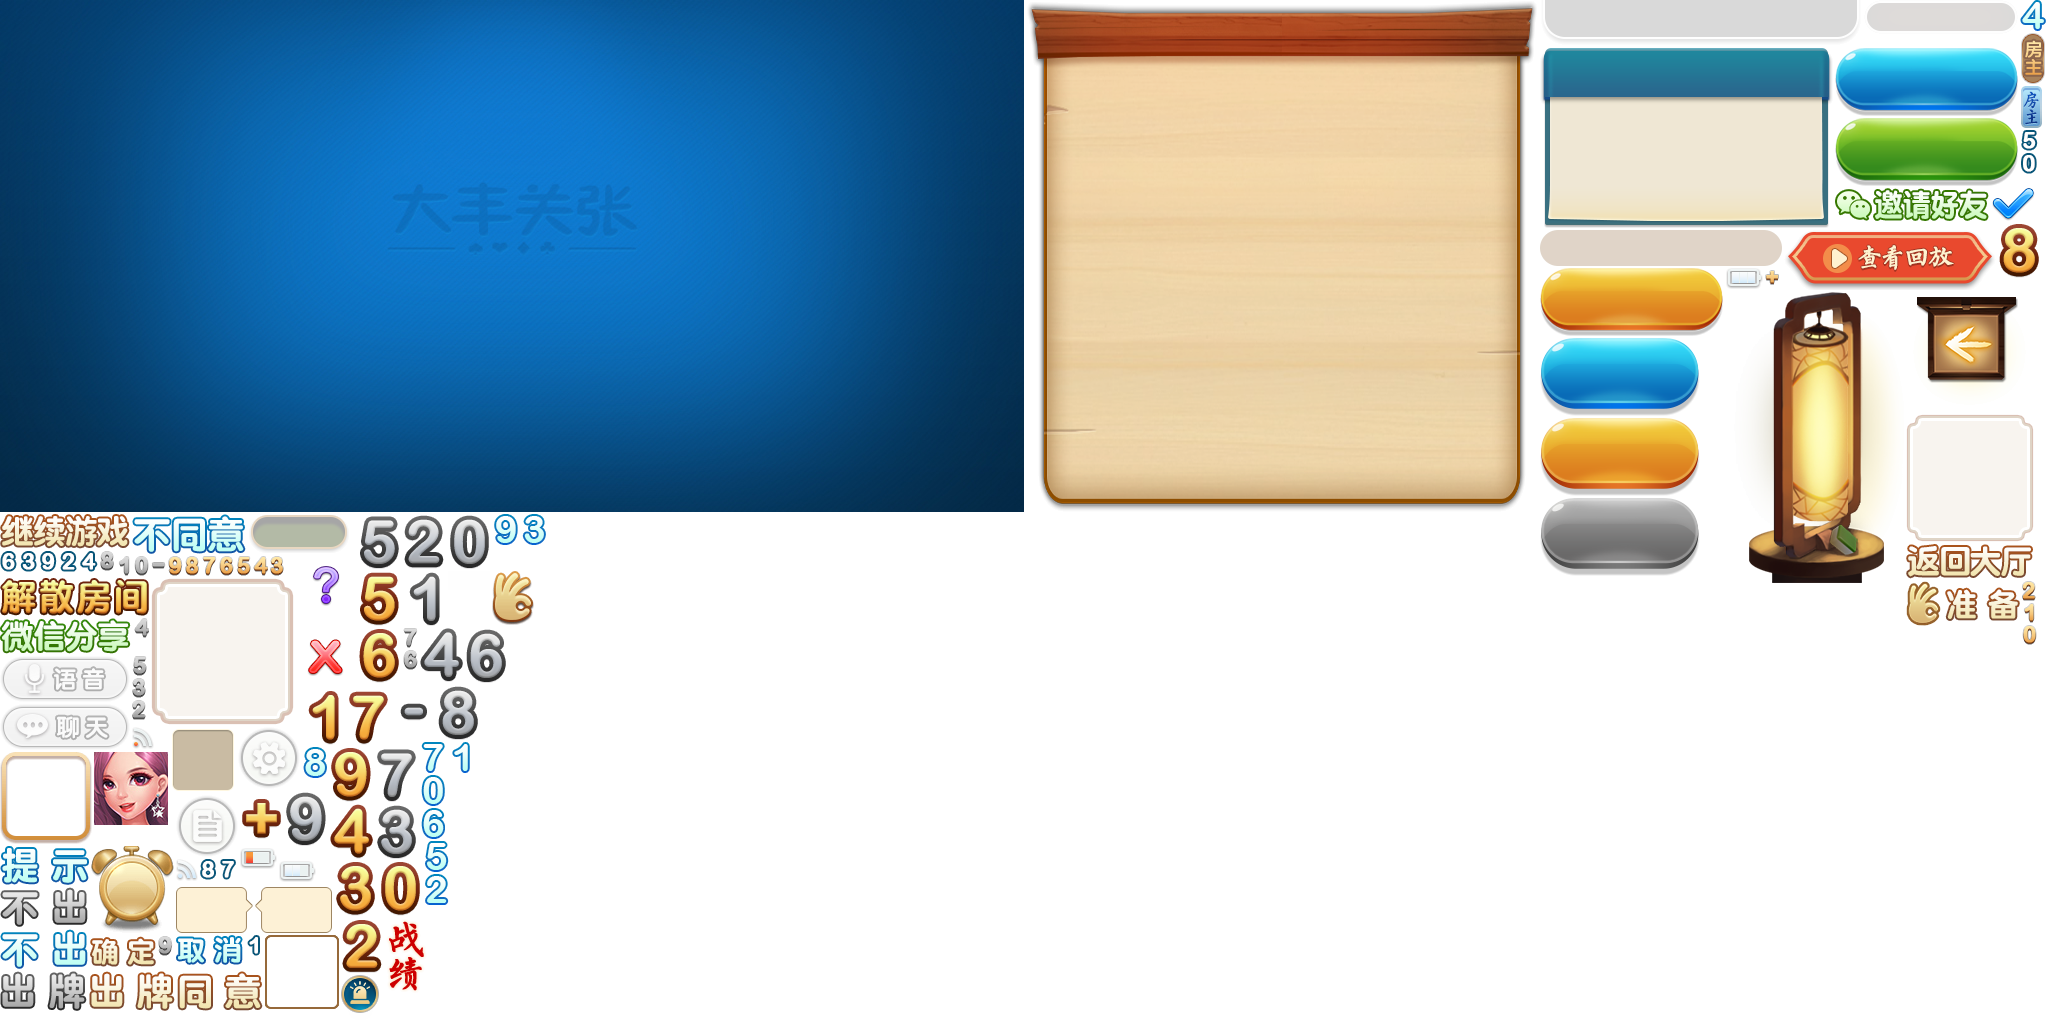
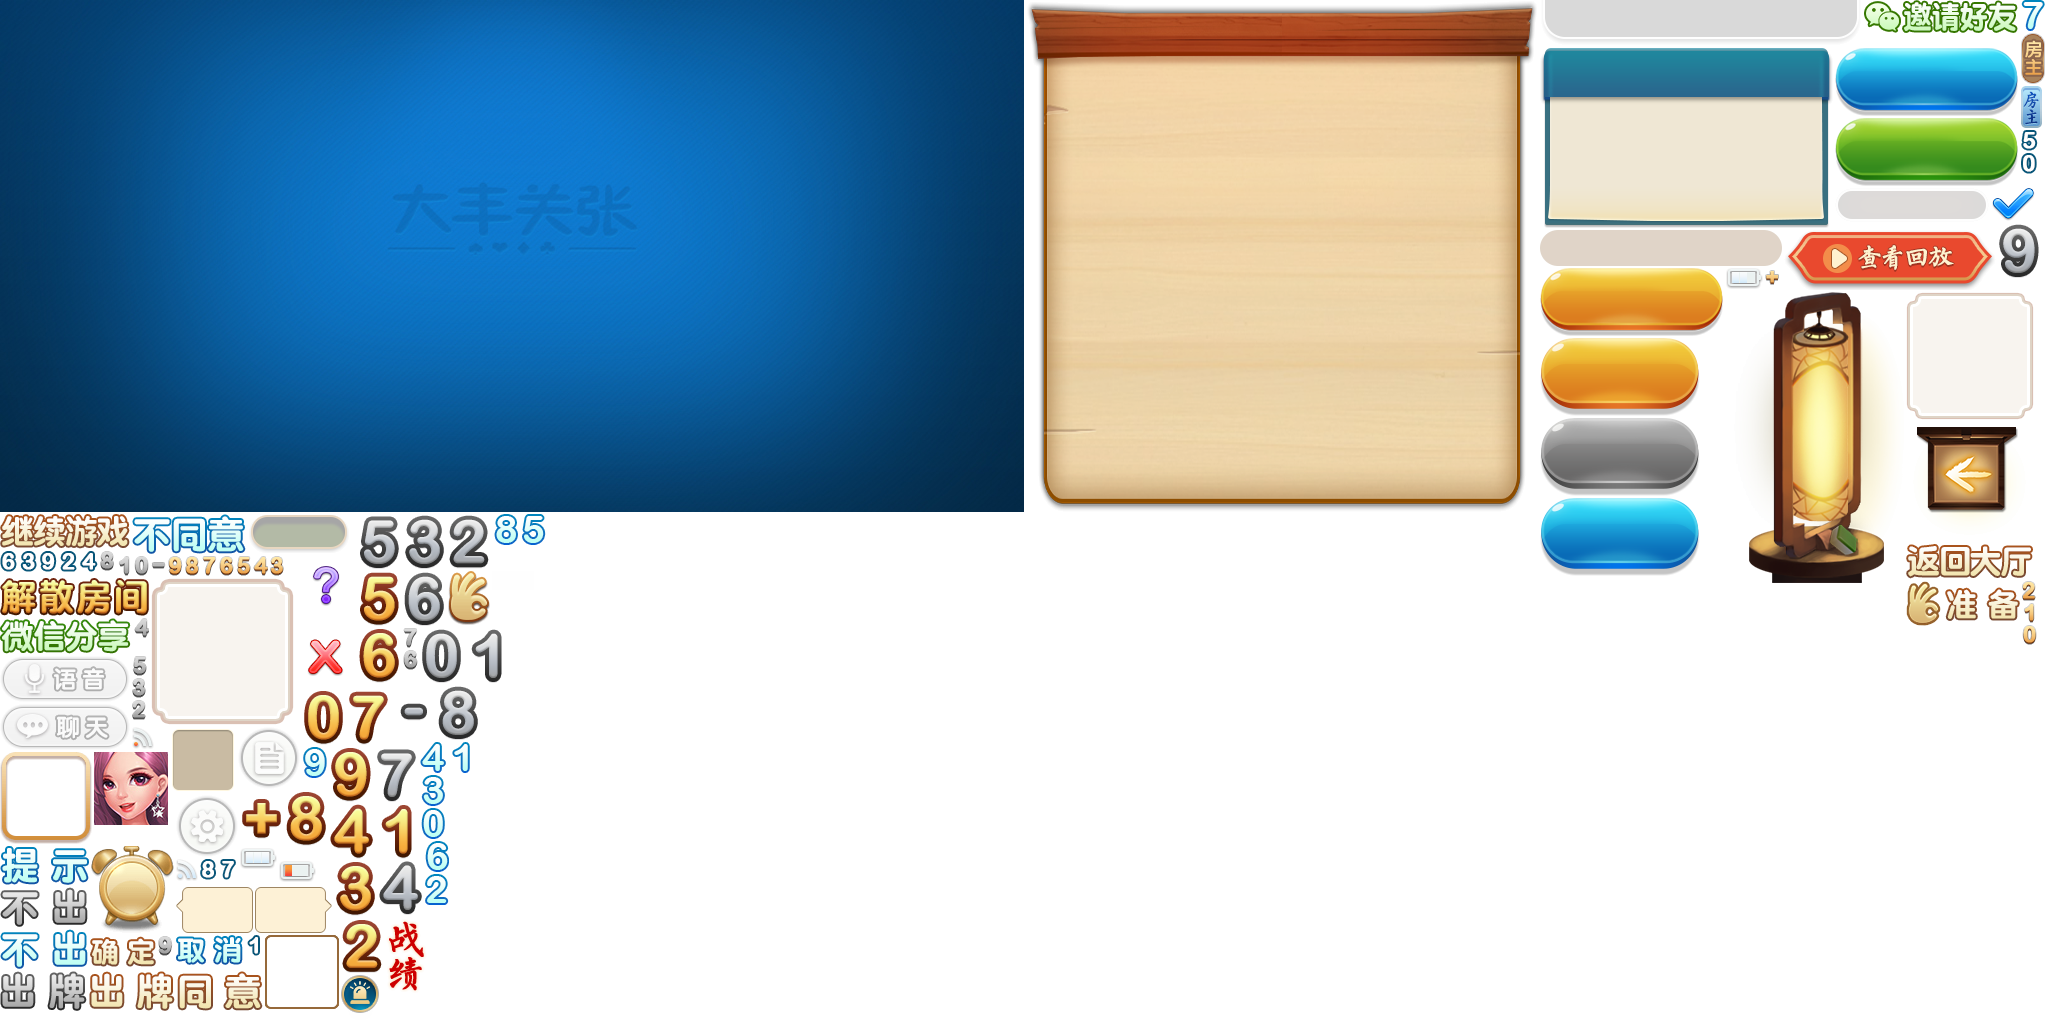
背景全屏

diff --git a/assets/Script/modules/lobby/lcore/CommonFunction.ts b/assets/Script/modules/lobby/lcore/CommonFunction.ts
@@ -1,4 +1,3 @@
-
 /**
  * 公共函数类
  */
@@ -20,5 +19,52 @@ export namespace CommonFunction {
             }
         }
         node.url = headImage;
+    };
+
+    /**
+     * 根据大小，拉长比例
+     * @param node 节点
+     */
+    export const setBgFullScreenScale = (node: fgui.GObject): void => {
+        // 1. 先找到 SHOW_ALL 模式适配之后，本节点的实际宽高以及初始缩放值
+        const scaleForShowAll = Math.min(
+            cc.view.getCanvasSize().width / node.width,
+            cc.view.getCanvasSize().height / node.height
+        );
+        const realWidth = node.width * scaleForShowAll;
+        const realHeight = node.height * scaleForShowAll;
+
+        // 2. 基于第一步的数据，再做缩放适配
+        node.scaleX = Math.max(
+            cc.view.getCanvasSize().width / realWidth,
+            cc.view.getCanvasSize().height / realHeight
+        );
+
+        node.scaleY = Math.max(
+            cc.view.getCanvasSize().width / realWidth,
+            cc.view.getCanvasSize().height / realHeight
+        );
+    };
+
+    /**
+     * 根据大小 拉长高宽
+     * @param node 节点
+     */
+    export const setBgFullScreen = (node: fgui.GObject): void => {
+
+        // 1. 先找到 SHOW_ALL 模式适配之后，本节点的实际宽高以及初始缩放值
+        const srcScaleForShowAll = Math.min(
+            cc.view.getCanvasSize().width / node.width,
+            cc.view.getCanvasSize().height / node.height
+        );
+        const realWidth = node.width * srcScaleForShowAll;
+        const realHeight = node.height * srcScaleForShowAll;
+
+        // 2. 基于第一步的数据，再做节点宽高重置
+        node.width = node.width *
+            (cc.view.getCanvasSize().width / realWidth);
+        node.height = node.height *
+            (cc.view.getCanvasSize().height / realHeight);
+
     };
 }

diff --git a/assets/Script/modules/gamea/PlayerViewA.ts b/assets/Script/modules/gamea/PlayerViewA.ts
@@ -60,10 +60,13 @@ export class PlayerViewA {
     private roomHost: RoomHost;
     private msgTimerCB: Function;
 
+    private viewUnityNode: fgui.GComponent;
+
     public constructor(viewUnityNode: fgui.GComponent, viewChairID: number, room: RoomInterfaceA) {
         this.room = room;
         this.viewChairID = viewChairID;
         this.roomHost = this.room.getRoomHost();
+        this.viewUnityNode = viewUnityNode;
 
         //这里需要把player的chairID转换为游戏视图中的chairID，这是因为，无论当前玩家本人
         //的chair ID是多少，他都是居于正中下方，左手是上家，右手是下家，正中上方是对家
@@ -346,8 +349,10 @@ export class PlayerViewA {
         obj.grayed = false;
     }
 
-    public getUserInfoPos(): fgui.GObject {
-        return this.userInfoPos;
+    public getUserInfoPos(): cc.Vec2 {
+
+        return this.viewUnityNode.node.
+            convertToNodeSpaceAR(this.userInfoPos.parent.node.convertToWorldSpaceAR(new cc.Vec2(this.userInfoPos.x, this.userInfoPos.y)));
     }
 
     //显示聊天消息

diff --git a/assets/Script/modules/gameb/GameModule.ts b/assets/Script/modules/gameb/GameModule.ts
@@ -1,7 +1,7 @@
 import {
-    AnimationMgr, DataStore, Dialog, GameModuleInterface,
-    GameModuleLaunchArgs, GResLoader, LEnv,
-    LobbyModuleInterface, Logger, MsgQueue, MsgType, RoomInfo, UserInfo, WS
+    AnimationMgr, CommonFunction, DataStore, Dialog,
+    GameModuleInterface, GameModuleLaunchArgs, GResLoader,
+    LEnv, LobbyModuleInterface, Logger, MsgQueue, MsgType, RoomInfo, UserInfo, WS
 } from "../lobby/lcore/LCoreExports";
 import { proto } from "./proto/protoGame";
 import { Replay } from "./Replay";
@@ -71,6 +71,13 @@ export class GameModule extends cc.Component implements GameModuleInterface {
         const x = cc.winSize.width / 2 - (cc.winSize.height * 1136 / 640 / 2);
         view.setPosition(x, view.y);
         this.view = view;
+
+        let bg = view.getChild("blueBg");
+        bg.setPosition(-x, 0);
+        CommonFunction.setBgFullScreen(bg);
+        bg = view.getChild("classBg");
+        bg.setPosition(-x, 0);
+        CommonFunction.setBgFullScreen(bg);
 
         this.mAnimationMgr = new AnimationMgr(this.lm.loader);
 

diff --git a/assets/Script/modules/lobby/views/chat/ChatView.ts b/assets/Script/modules/lobby/views/chat/ChatView.ts
@@ -74,7 +74,7 @@ export class ChatView extends cc.Component {
     private msgCallBack: Function;
     private msgList: { [key: number]: ChatData };
 
-    public show(loader: GResLoader, msgCallBack: Function): void {
+    public show(loader: GResLoader, msgCallBack: Function, width: number): void {
         this.msgCallBack = msgCallBack;
         if (this.view === undefined || this.view === null) {
             loader.fguiAddPackage("lobby/fui_chat/lobby_chat");
@@ -91,10 +91,10 @@ export class ChatView extends cc.Component {
         }
         fgui.GRoot.inst.showPopup(this.view);
 
-        const x = cc.winSize.width / 2 - (cc.winSize.height * 1136 / 640 / 2) + (1136 - 500);
+        //const x = cc.winSize.width / 2 - (cc.winSize.height * 1136 / 640 / 2) + (1136 - 500);
+        const x = width - 500;
         this.view.setPosition(x, 0);
-        // const windowSize = cc.view.getVisibleSize();
-        // this.view.setPosition(windowSize.width - 500, 0);
+
     }
 
     protected onMessage(data: ByteBuffer): void {

diff --git a/assets/Script/modules/gamea/GameModuleA.ts b/assets/Script/modules/gamea/GameModuleA.ts
@@ -1,7 +1,7 @@
 import {
-    AnimationMgr, DataStore, Dialog, GameModuleInterface,
-    GameModuleLaunchArgs, GResLoader, LEnv,
-    LobbyModuleInterface, Logger, MsgQueue, MsgType, RoomInfo, UserInfo, WS
+    AnimationMgr, CommonFunction, DataStore, Dialog,
+    GameModuleInterface, GameModuleLaunchArgs, GResLoader,
+    LEnv, LobbyModuleInterface, Logger, MsgQueue, MsgType, RoomInfo, UserInfo, WS
 } from "../lobby/lcore/LCoreExports";
 import { proto } from "./proto/protoGameA";
 import { ReplayA } from "./ReplayA";
@@ -71,6 +71,10 @@ export class GameModuleA extends cc.Component implements GameModuleInterface {
         const x = cc.winSize.width / 2 - (cc.winSize.height * 1136 / 640 / 2);
         view.setPosition(x, view.y);
         this.view = view;
+
+        const bg = view.getChild("blueBg");
+        bg.setPosition(-x, 0);
+        CommonFunction.setBgFullScreen(bg);
 
         this.mAnimationMgr = new AnimationMgr(this.lm.loader);
 

diff --git a/assets/Script/modules/lobby/views/roomSetting/RoomSettingView.ts b/assets/Script/modules/lobby/views/roomSetting/RoomSettingView.ts
@@ -17,7 +17,7 @@ export class RoomSettingView extends cc.Component {
     private musicSlider: fgui.GSlider;
     private soundSlider: fgui.GSlider;
 
-    public showView(room: RoomInterface, loader: GResLoader, isOwner: boolean): void {
+    public showView(room: RoomInterface, loader: GResLoader, isOwner: boolean, width: number): void {
         this.room = room;
         if (this.view === undefined || this.view === null) {
             // this.room = room;
@@ -27,7 +27,8 @@ export class RoomSettingView extends cc.Component {
         }
         fgui.GRoot.inst.showPopup(this.view);
 
-        const x = cc.winSize.width / 2 - (cc.winSize.height * 1136 / 640 / 2) + (1136 - 480);
+        //const x = cc.winSize.width / 2 - (cc.winSize.height * 1136 / 640 / 2) + (1136 - 480);
+        const x = width - 480;
         this.view.setPosition(x, 0);
         // this.view.setPosition(0, 0);
     }

diff --git a/assets/Script/modules/gamea/RoomViewA.ts b/assets/Script/modules/gamea/RoomViewA.ts
@@ -217,7 +217,8 @@ export class RoomViewA {
         const settingView = this.component.addComponent(RoomSettingView);
 
         const isOwner = this.room.ownerID === this.room.getMyPlayerInfo().userID;
-        settingView.showView(this.room, this.room.getRoomHost().getLobbyModuleLoader(), isOwner);
+        const bg = this.unityViewNode.getChild("blueBg");
+        settingView.showView(this.room, this.room.getRoomHost().getLobbyModuleLoader(), isOwner, bg.width);
     }
 
     /**
@@ -234,8 +235,10 @@ export class RoomViewA {
             chatView = this.component.addComponent(ChatView);
         }
 
+        const bg = this.unityViewNode.getChild("blueBg");
+
         const callBack: Function = <Function>this.room.showMsg.bind(this.room);
-        chatView.show(load, callBack);
+        chatView.show(load, callBack, bg.width);
     }
     /**
      * 初始化

diff --git a/assets/Script/modules/gameb/RoomView.ts b/assets/Script/modules/gameb/RoomView.ts
@@ -331,7 +331,9 @@ export class RoomView {
         const settingView = this.component.addComponent(RoomSettingView);
 
         const isOwner = this.room.ownerID === this.room.getMyPlayerInfo().userID;
-        settingView.showView(this.room, this.room.getRoomHost().getLobbyModuleLoader(), isOwner);
+        const bg = this.unityViewNode.getChild("blueBg");
+
+        settingView.showView(this.room, this.room.getRoomHost().getLobbyModuleLoader(), isOwner, bg.width);
     }
 
     /**
@@ -348,8 +350,10 @@ export class RoomView {
             chatView = this.component.addComponent(ChatView);
         }
 
+        const bg = this.unityViewNode.getChild("blueBg");
+
         const callBack: Function = <Function>this.room.showMsg.bind(this.room);
-        chatView.show(load, callBack);
+        chatView.show(load, callBack, bg.width);
     }
     /**
      * 初始化

diff --git a/assets/Script/modules/gamea/PlayerA.ts b/assets/Script/modules/gamea/PlayerA.ts
@@ -428,7 +428,7 @@ export class PlayerA {
         // const pos = { x = this.playerView.userInfoPos.x, y = this.playerView.userInfoPos.y }
         // playerInfoView.showUserInfoView(this.playerInfo, pos, this.isMe() == false, this.host)
 
-        const pos = new cc.Vec2(this.playerView.getUserInfoPos().x, this.playerView.getUserInfoPos().y);
+        const pos = this.playerView.getUserInfoPos();
         // const pos = new cc.Vec2(0, 0);
         // const playerInfoString = JSON.stringify(this.playerInfo);
         // playerInfoView.showUserInfoView(self.playerInfo, pos, self:isMe() == false)

diff --git a/assets/Script/modules/gameb/Player.ts b/assets/Script/modules/gameb/Player.ts
@@ -812,7 +812,7 @@ export class Player {
         // const pos = { x = this.playerView.userInfoPos.x, y = this.playerView.userInfoPos.y }
         // playerInfoView.showUserInfoView(this.playerInfo, pos, this.isMe() == false, this.host)
 
-        const pos = new cc.Vec2(this.playerView.getUserInfoPos().x, this.playerView.getUserInfoPos().y);
+        const pos = this.playerView.getUserInfoPos();
         // const pos = new cc.Vec2(0, 0);
         // const playerInfoString = JSON.stringify(this.playerInfo);
         // playerInfoView.showUserInfoView(self.playerInfo, pos, self:isMe() == false)

diff --git a/assets/Script/modules/lobby/views/LobbyView.ts b/assets/Script/modules/lobby/views/LobbyView.ts
@@ -63,12 +63,13 @@ export class LobbyView extends cc.Component {
         loader.fguiAddPackage("lobby/fui_bg/lobby_bg_package");
 
         const view = fgui.UIPackage.createObject("lobby_main", "Main").asCom;
-
         fgui.GRoot.inst.addChild(view);
         const x = cc.winSize.width / 2 - (cc.winSize.height * 1136 / 640 / 2);
         view.setPosition(x, view.y);
-
         this.view = view;
+
+        const bg = view.getChild("n21");
+        CommonFunction.setBgFullScreen(bg);
 
         this.initView();
 

diff --git a/assets/Script/modules/lobby/views/disbandRoom/DisbandView.ts b/assets/Script/modules/lobby/views/disbandRoom/DisbandView.ts
@@ -62,6 +62,7 @@ export class DisbandView extends cc.Component {
         if (this.view === null || this.view === undefined) {
             loader.fguiAddPackage("lobby/fui_room_other_view/room_other_view");
             const view = fgui.UIPackage.createObject("room_other_view", "disband_room").asCom;
+            view.x = cc.winSize.width / 2 - (cc.winSize.height * 1136 / 640 / 2);
             this.view = view;
             const win = new fgui.Window();
             win.contentPane = view;
